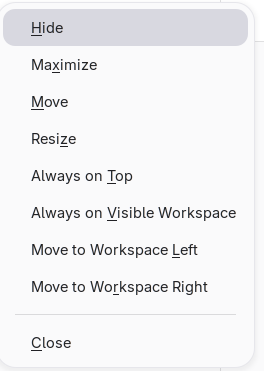
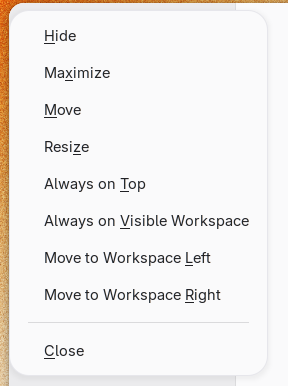
workplace r on the correct word, update screenshot

diff --git a/extension.js b/extension.js
@@ -42,7 +42,21 @@ export default class WindowMenuKeybinds extends Extension {
 
                 item[SHORTCUT_KEY] = key.charCodeAt(0);
 
-                const idx = text.toLowerCase().indexOf(key);
+                let idx = text.toLowerCase().indexOf(key);
+                const words = text.split(' ');
+                if (words.length > 1) {
+                    for (let w = words.length - 1; w >= 0; w--) {
+                        const wordLower = words[w].toLowerCase();
+                        const wordIdx = wordLower.indexOf(key);
+                        if (wordIdx !== -1) {
+                            let absPos = 0;
+                            for (let i = 0; i < w; i++)
+                                absPos += words[i].length + 1;
+                            idx = absPos + wordIdx;
+                            break;
+                        }
+                    }
+                }
                 if (idx !== -1) {
                     const markupText = `${text.slice(0, idx)}<u>${text[idx]}</u>${text.slice(idx + 1)}`;
                     label.clutter_text.set_markup(markupText);
